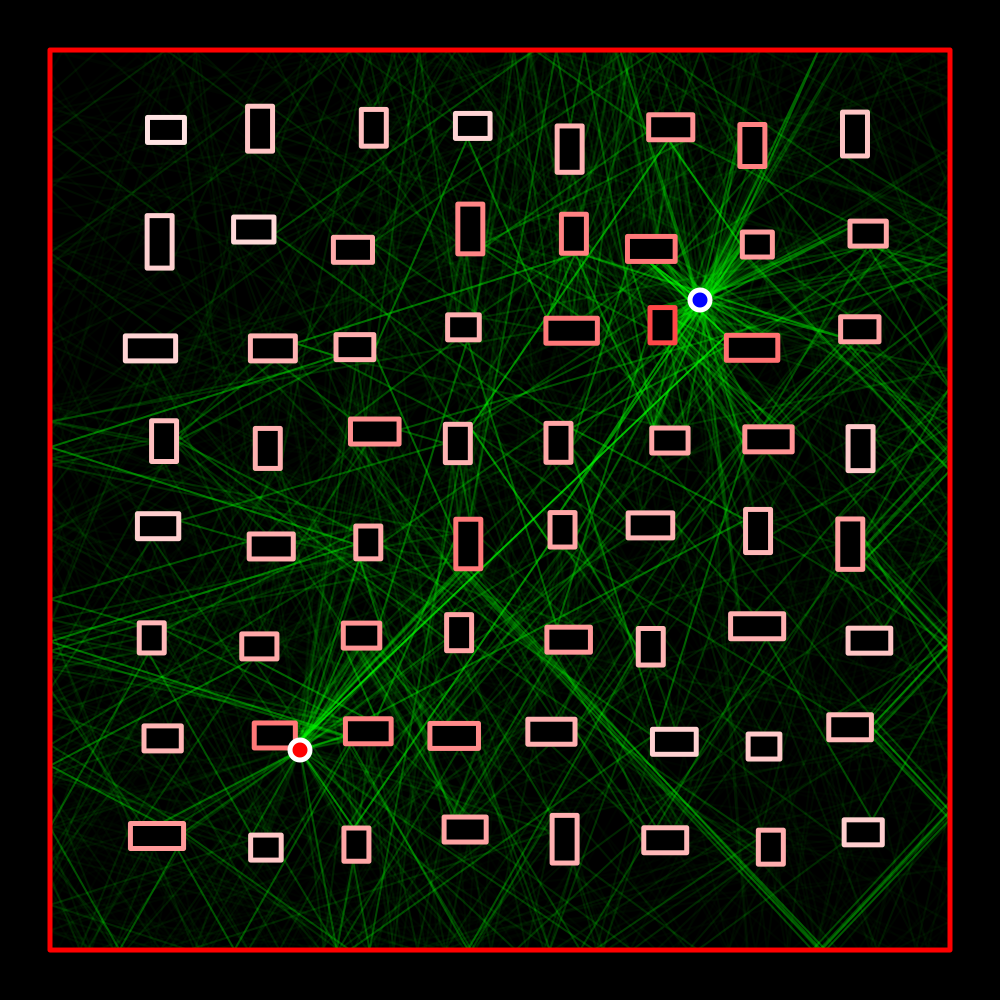
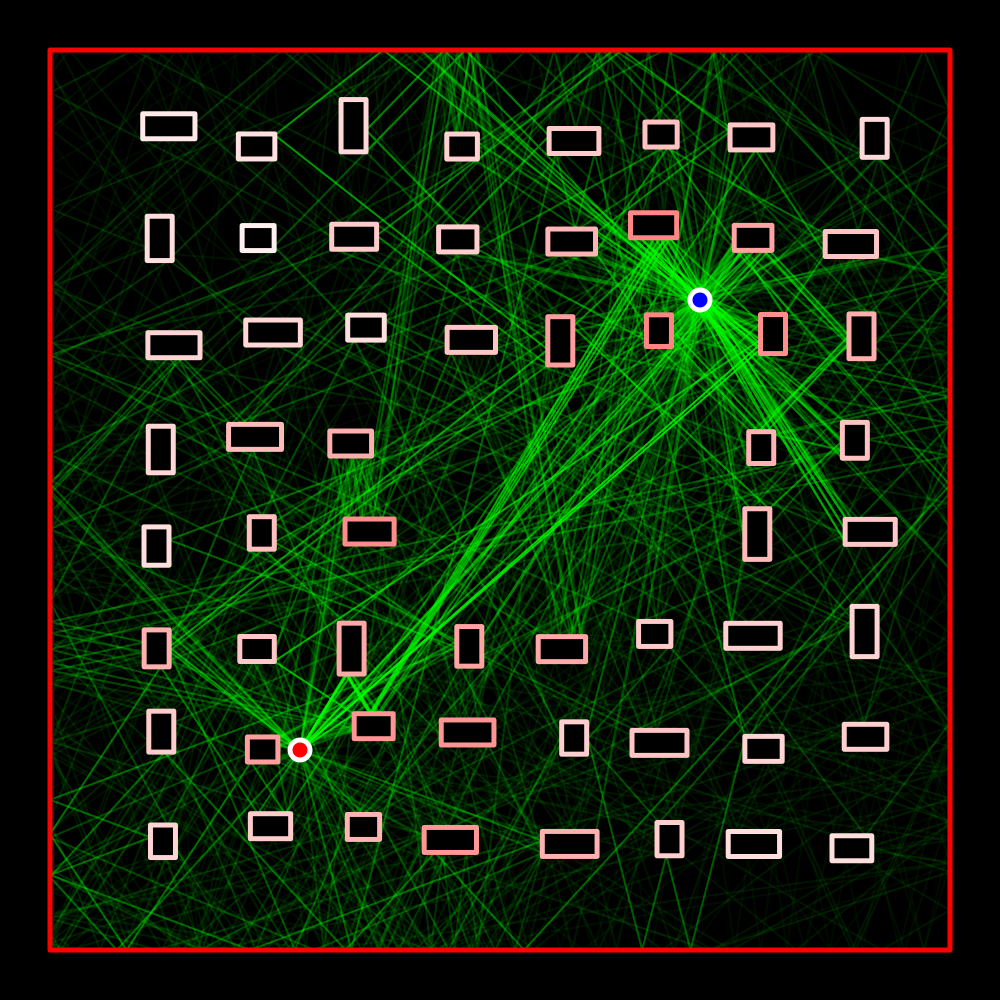
even more city examples

diff --git a/samples/city_3.py b/samples/city_3.py
@@ -5,7 +5,7 @@ from copy import deepcopy
 from multipatprop import System, Transmitter, Receiver, Interferer, Point, DigitalSignal
 from render import render
 
-seed(1123)
+seed(114230)
 
 
 transmitter = Transmitter(Point(-2, -2.5))
@@ -15,13 +15,15 @@ interferers = [Interferer.square(Point(0, 0), 9, 0)]
 
 for x in range(8):
     for y in range(8):
+        if ((x-4)**2 + (y-3.5)**2)**0.5 < 1.5:
+            continue
         interferer = Interferer.rectangle(position=Point(x - 3.5 + random() / 4, y - 3.5 + random() / 4), length=0.3 + random() / 4, width=0.25, rotation=pi / 2 * randint(0, 100))
         interferers.append(interferer)
 
 
 
 system = System(transmitter, receiver, interferers)
-multipath = system.get_multipath(starting_number=1000, receiver_diameter=0.2, max_reflections=40, power_multiplier=0.95)
+multipath = system.get_multipath(starting_number=1000, receiver_diameter=0.2, max_reflections=30, power_multiplier=0.95)
 camera_position = Point(0, 0)
 camera_zoom = 0.1
 render(system, multipath, camera_position, camera_zoom, ui_size=1, bins=30, red_factor=1)

diff --git a/samples/city_2.py b/samples/city_2.py
@@ -5,7 +5,7 @@ from copy import deepcopy
 from multipatprop import System, Transmitter, Receiver, Interferer, Point, DigitalSignal
 from render import render
 
-seed(1123)
+seed(11230)
 
 
 transmitter = Transmitter(Point(-2, -2.5))
@@ -15,13 +15,15 @@ interferers = [Interferer.square(Point(0, 0), 9, 0)]
 
 for x in range(8):
     for y in range(8):
+        if ((x-4)**2 + (y-4)**2)**0.5 > 4:
+            continue
         interferer = Interferer.rectangle(position=Point(x - 3.5 + random() / 4, y - 3.5 + random() / 4), length=0.3 + random() / 4, width=0.25, rotation=pi / 2 * randint(0, 100))
         interferers.append(interferer)
 
 
 
 system = System(transmitter, receiver, interferers)
-multipath = system.get_multipath(starting_number=1000, receiver_diameter=0.2, max_reflections=40, power_multiplier=0.95)
+multipath = system.get_multipath(starting_number=1000, receiver_diameter=0.2, max_reflections=30, power_multiplier=0.95)
 camera_position = Point(0, 0)
 camera_zoom = 0.1
 render(system, multipath, camera_position, camera_zoom, ui_size=1, bins=30, red_factor=1)
